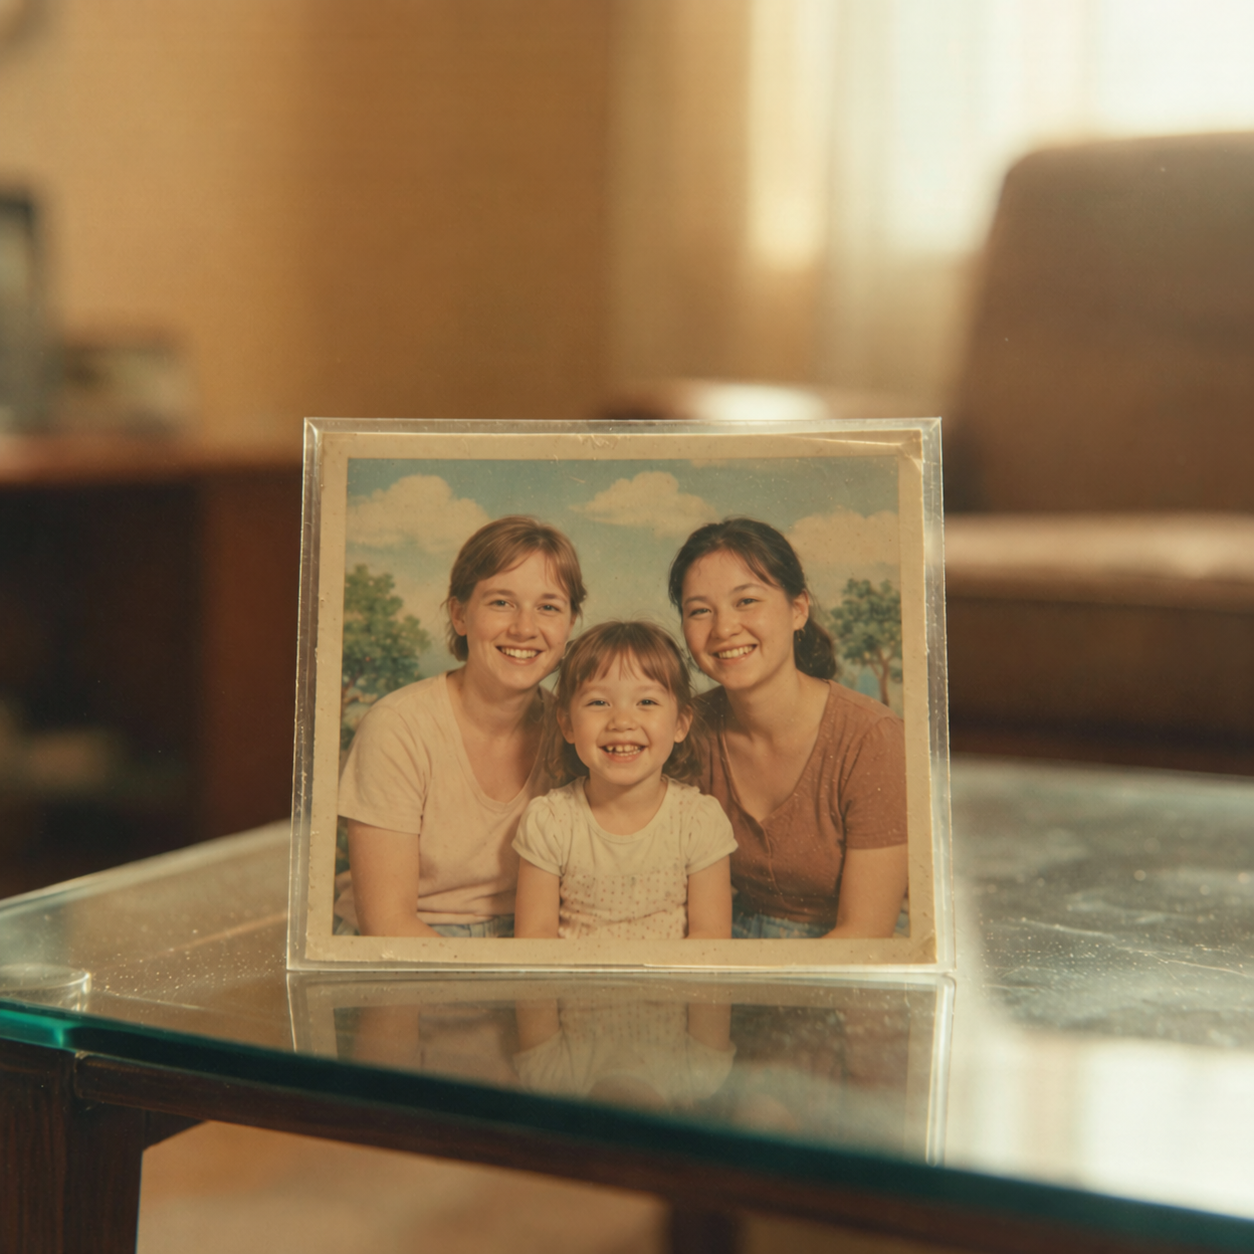
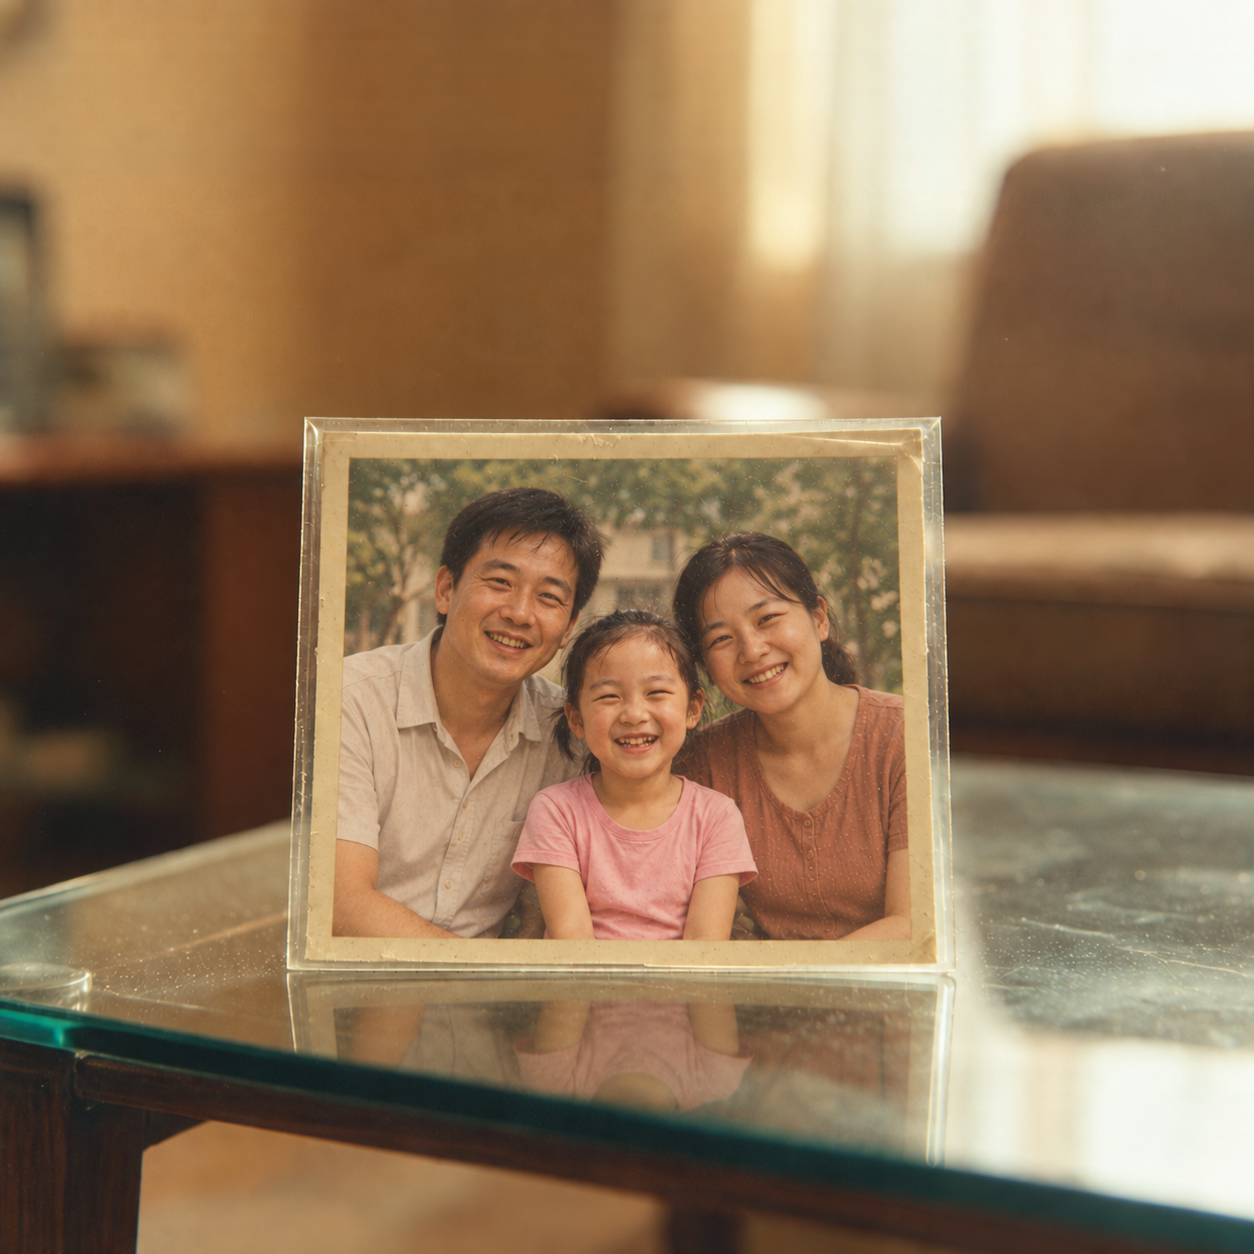
按林瑜童年设定重绘一家三口合照

Changed region(s): [[0.2177, 0.3421, 0.7464, 0.9019], [0.6531, 0.8086, 0.6842, 0.8708], [0.3421, 0.8086, 0.3732, 0.8397]]

diff --git a/docs/素材与整理说明.md b/docs/素材与整理说明.md
@@ -11,7 +11,7 @@
 | 十份运行音频 | `音频/` | 仅收录代码明确引用的 WAV 文件 |
 | 完整剧本与人物设定 | `docs/design/` | 保留原文，集中归档 |
 | 实机截图 | `docs/screenshots/` | 从整理后的版本实际运行时截取 |
-| README 设定图 | `docs/illustrations/` | 四张原有设定图的角标修复版 |
+| README 设定图 | `docs/illustrations/` | 人物和物件展示图，含角标修复与全家福重绘 |
 | 中文说明与运行记录 | 根目录及 `docs/` | 为公开展示补写 |
 
 游戏的 44 份代码、页面、样式、图像和音频文件的 SHA-256 摘要保存在 [source-manifest.json](source-manifest.json) 中，用于核对运行文件是否发生变化。该清单不包含新增文档和截图。
@@ -36,9 +36,9 @@
 
 ## README 配图编辑记录
 
-README 中的两张人物设定图与两张物件设定图使用内置 imagegen 工具编辑，移除右下角的“图片由AI生成”角标，并补齐其下方背景。这四张图仍是 AI 生成素材；修复版单独保存在下列位置，原图保留在 `game/images/`。生成式修复可能使局部纹理产生细微变化。
+README 中的两张人物设定图与两张物件设定图最初使用内置 imagegen 工具编辑，移除右下角的“图片由AI生成”角标，并补齐其下方背景；全家福随后按照童年林瑜的形象重新绘制。这四张图仍是 AI 生成素材；展示版单独保存在下列位置，原图保留在 `game/images/`。生成式修复可能使局部纹理产生细微变化。
 
-| 修复版 | 原图 |
+| 展示版 | 原图 |
 | --- | --- |
 | [童年林瑜](illustrations/linyu-child.png) | `game/images/characters/linyu_8.jpg` |
 | [成年林瑜](illustrations/linyu-adult.png) | `game/images/characters/linyu_26.jpg` |
@@ -46,3 +46,5 @@ README 中的两张人物设定图与两张物件设定图使用内置 imagegen 
 | [字条](illustrations/note.png) | `game/images/cuts/note.jpg` |
 
 四次编辑使用同一组提示要求，分别指定对应的原图作为编辑目标：仅移除右下角的白色“图片由AI生成”文字并自然补齐背景；尽量保持人物身份、面部、姿态、物品、构图、色彩、光线与纹理；保留物品本身的文字，不裁切、不缩放构图、不改变风格、不添加物品或文字，输出单张完整图片。
+
+全家福重绘使用内置 imagegen 工具，以 [童年林瑜](illustrations/linyu-child.png) 为人物身份参考，以原展示版为相框与客厅环境参考。提示要求：相片中是同一个穿粉色短袖的 8 岁中国女孩林瑜，坐在中国父亲与中国母亲中间，保持她的五官、发型、年龄和开心笑容；一家三口自然微笑，呈现 2008 年前后普通中国家庭合影的质感；保留旧相框、玻璃茶几、暖色午后光线与方形构图，同步更新桌面倒影，不添加文字或水印。重绘结果保存为 `docs/illustrations/family-photo.png`。

diff --git a/README.md b/README.md
@@ -48,7 +48,7 @@
 
 <table>
   <tr>
-    <td width="50%"><img src="docs/illustrations/family-photo.png" alt="全家福物件设定图" width="420"></td>
+    <td width="50%"><img src="docs/illustrations/family-photo.png" alt="童年林瑜与父母的全家福设定图" width="420"></td>
     <td width="50%"><img src="docs/illustrations/note.png" alt="字条物件设定图" width="420"></td>
   </tr>
   <tr>
